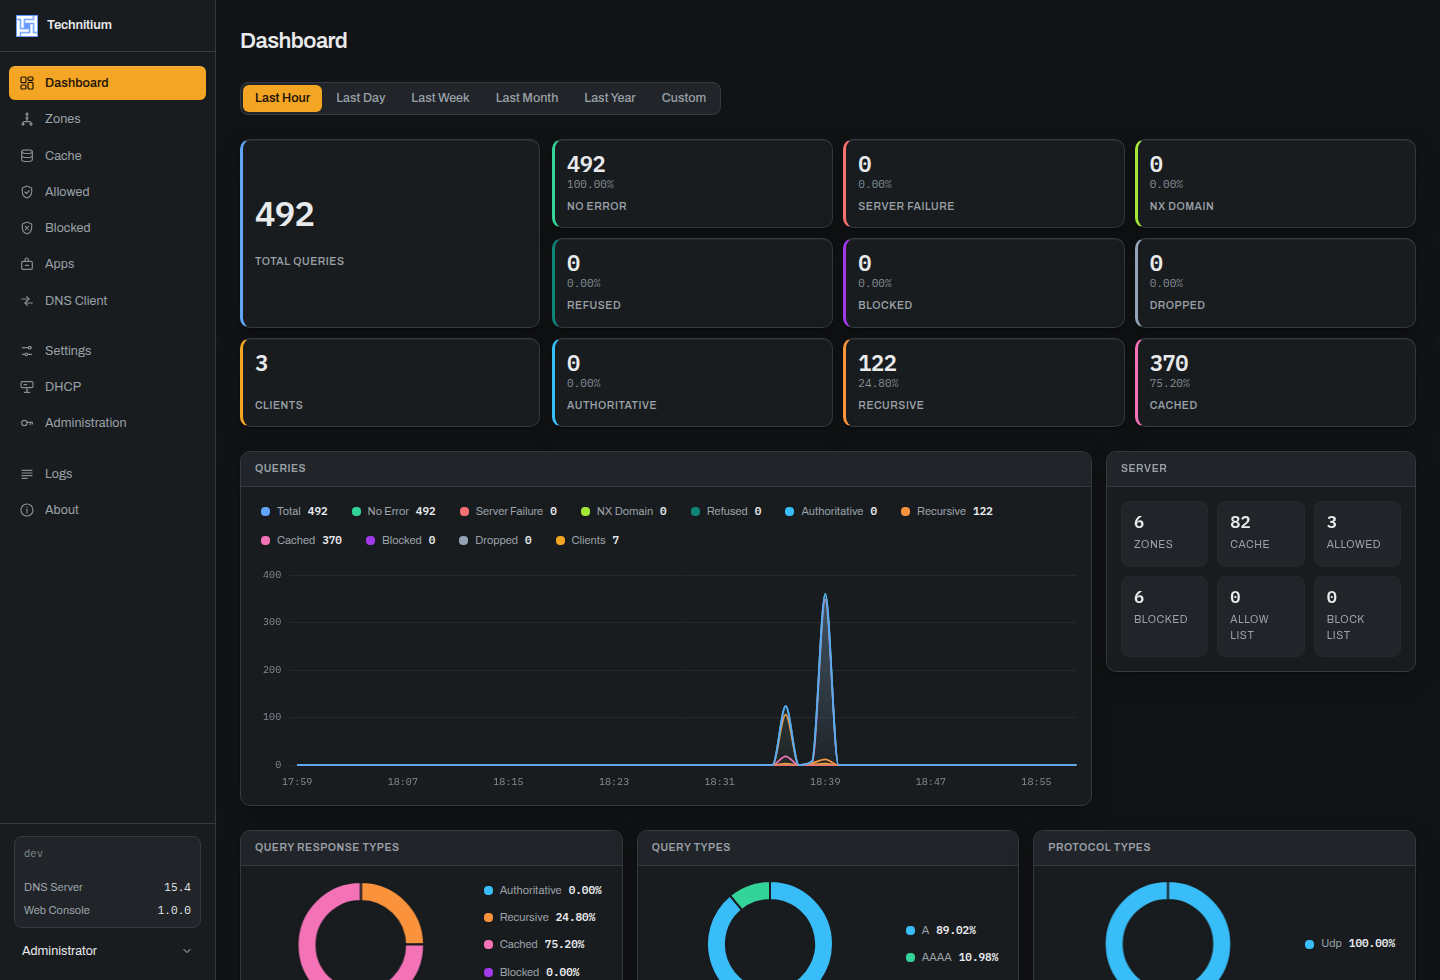
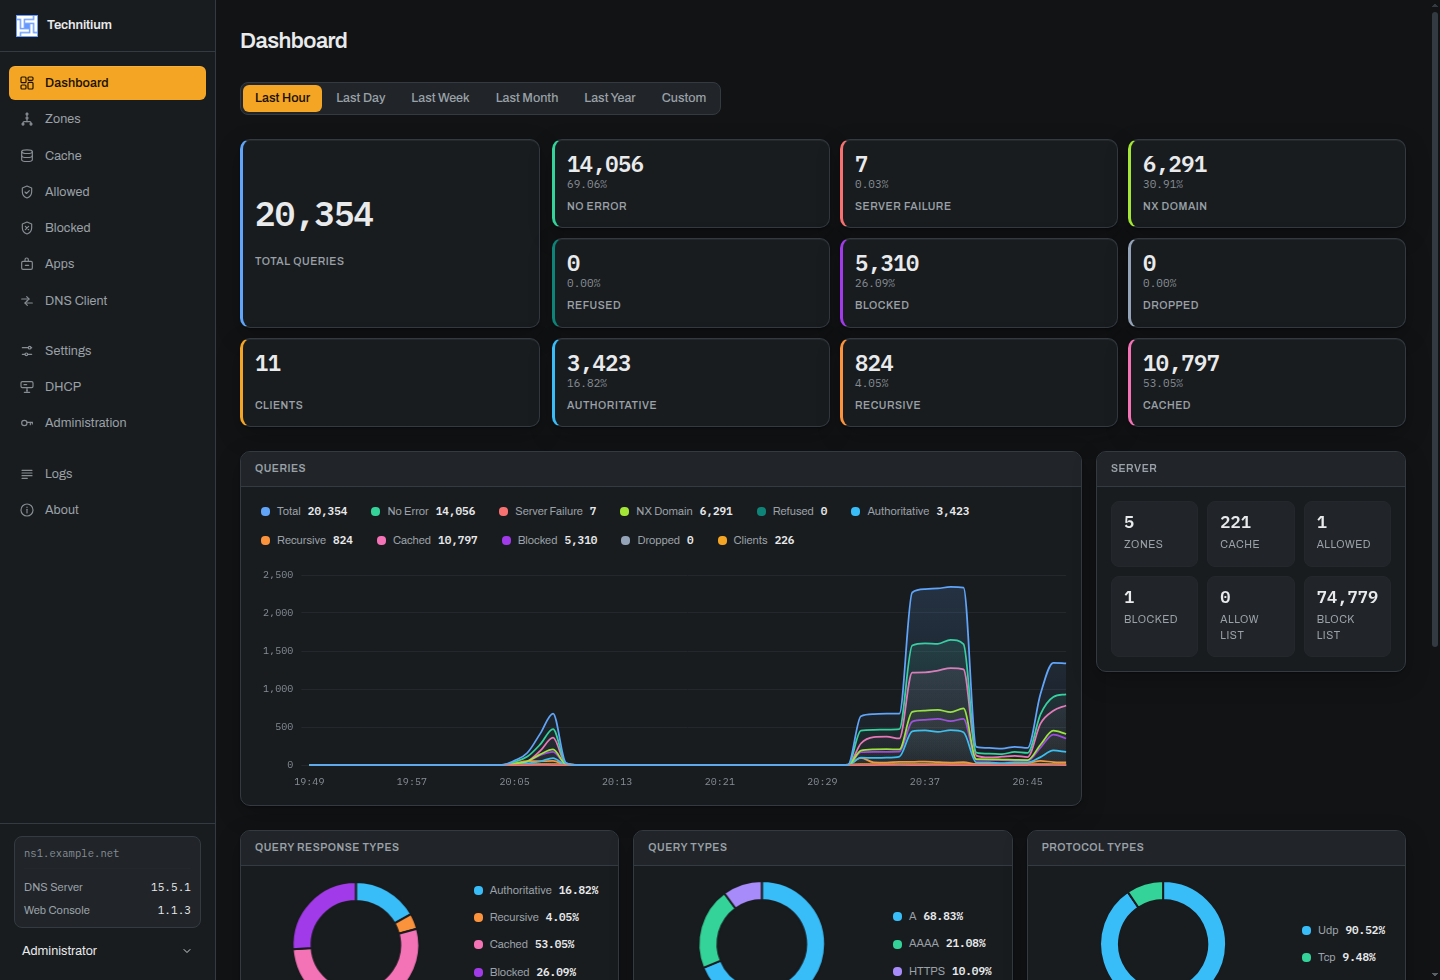
docs: screenshots of 1.1.3 with a household's worth of traffic, and a note for Proxmox community-script installs
The old screenshots showed the lab harness: zero blocked, a flat chart and
15.4 / 1.0.0 in the footer. These come from a clean instance of the official
v15.5.1 image with neutral names (example.net, home.arpa), real block lists and
ten named devices querying it.

diff --git a/README.md b/README.md
@@ -196,6 +196,12 @@ If the folder did not exist when the server restarted, the server logs it and
 keeps serving its own console; the installer reads that log, installs anyway and
 asks for one more restart.
 
+**On Proxmox VE with the community script** (`technitiumdns` from
+[community-scripts](https://github.com/community-scripts/ProxmoxVE)): run the steps
+above inside the container (`pct enter <id>`). Its unit is `technitium.service`, and
+the script's own *Update* no longer touches the console, since it lives in its own
+folder.
+
 For Docker, set the variable in the container's environment and mount the folder
 you pass to `--dir` at that path.
 
